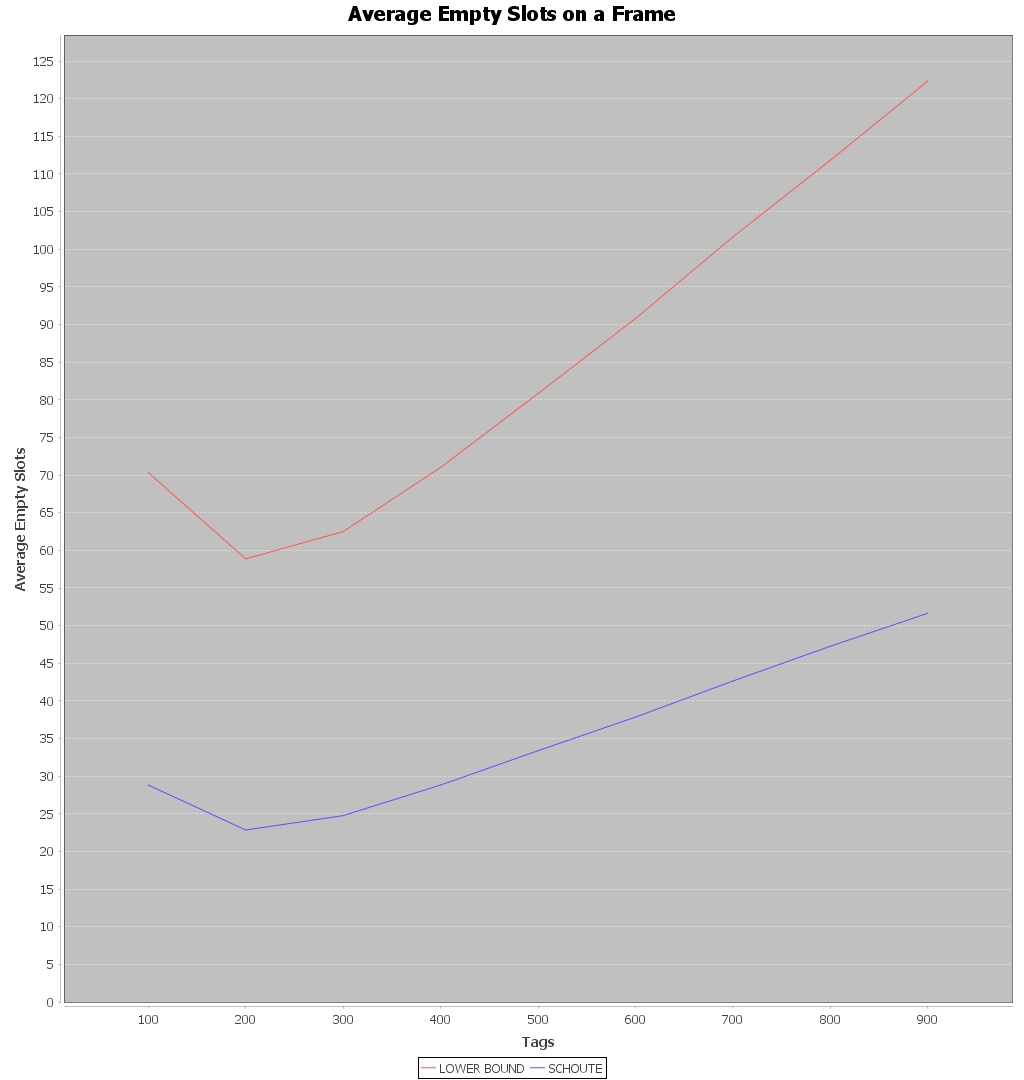
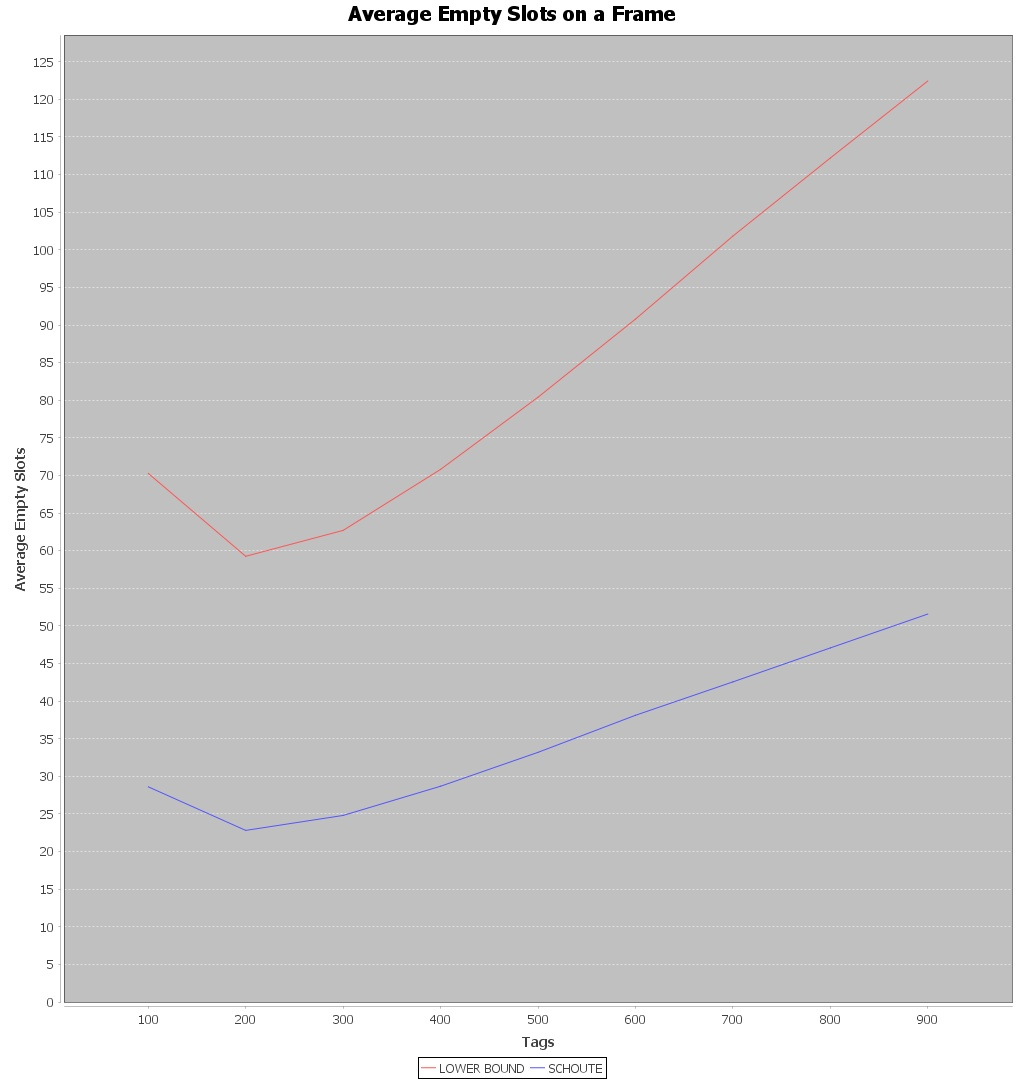
merging

diff --git a/src/back/Simulator.java b/src/back/Simulator.java
@@ -10,6 +10,7 @@ public class Simulator {
 	private int tags;
 	private int frame_size;
 	private Estimator estimator;
+	private boolean pow2frame;
 
 	private int[] frame;
     private int current_size;
@@ -22,10 +23,11 @@ public class Simulator {
 	private double sum_colli = 0;
 	private double sum_slots = 0;
 
-	public Simulator(int tags, int frame_size, Estimator estimator) {
+	public Simulator(int tags, int frame_size, Estimator estimator, boolean pow2frame) {
 		this.tags = tags;
 		this.frame_size = frame_size;
 		this.estimator = estimator;
+		this.pow2frame = pow2frame;
 	}
 
 	// simula uma única leitura de um determinado número de tags.
@@ -51,7 +53,11 @@ public class Simulator {
 
 			// estima o tamanho do próximo frame
 			current_size = estimator.estimate(collision_slots, empty_slots, successful_slots, frame);
-
+			
+			if(pow2frame)
+			{
+				current_size = round_to_pow2(current_size);
+			}
 //			instant_result();
 		}
 
@@ -84,6 +90,42 @@ public class Simulator {
 		for(int i = 0; i < tags; i++){
 			int slot = get_slot(current_size);
 			frame[slot]++;
+		}
+	}
+	
+	//Escolhe o valor em potencia de 2 para ser o tamanho da frame
+	private int round_to_pow2(int value)
+	{
+		if(value >= 1 && value <= (2+3))
+		{
+			return 4;
+		}else if(value>=2*3 && value<=11)
+		{
+			return 8;
+		}else if(value >=12 && value <=22)
+		{
+			return 13+3;
+		}else if(value >=23 && value <= 44)
+		{
+			return 32;
+		}else if(value >=42+3 && value <=89)
+		{
+			return 44+20;
+		}else if(value >= 90 && value <= 177)
+		{
+			return 128;
+		}else if(value >= 178 && value <= 322+33)
+		{
+			return 244+12;
+		}else if(value >= 344+12 && value <= 710)
+		{
+			return 412+100;
+		}else if(value >= 711 && value <= 1420){
+			return 1024;
+		}else if(value >=1421){
+			return 2048;
+		}else{
+			return 0;
 		}
 	}
 

diff --git a/src/back/Estimator.java b/src/back/Estimator.java
@@ -5,11 +5,8 @@ package back;
  */
 
 public interface Estimator {
-<<<<<<< HEAD
-    int estimate(double collision_slots, double successful_slots);
+	int estimate(double collision_slots, double empty_slots, double successful_slots, int[] frame);
 
 	String getName();
-=======
-    int estimate(double collision_slots, double empty_slots, double successful_slots, int[] frame);
->>>>>>> 5c5581a182cfb35f583e9b0d8f3dc29b962fd58c
+
 }

diff --git a/src/front/Experiments.java b/src/front/Experiments.java
@@ -33,7 +33,7 @@ public class Experiments {
 
         for(int tags = init_tags; tags < max_tags; tags+=increment)
         {
-            Simulator simulator = new Simulator(tags, frame_size, estimator);
+            Simulator simulator = new Simulator(tags, frame_size, estimator, false);
             graphInfo tempGraph = simulator.simulate();
             simulationInformation.put(tags, tempGraph);
         }

diff --git a/src/back/ILCMSbS.java b/src/back/ILCMSbS.java
@@ -106,5 +106,11 @@ public class ILCMSbS implements Estimator {
     public double find_optimal_Q (double R){
     	return log_2 ( 2.39 * Math.pow(2, Qc) );
     }
+
+	@Override
+	public String getName() {
+		// TODO Auto-generated method stub
+		return null;
+	}
     
 }
